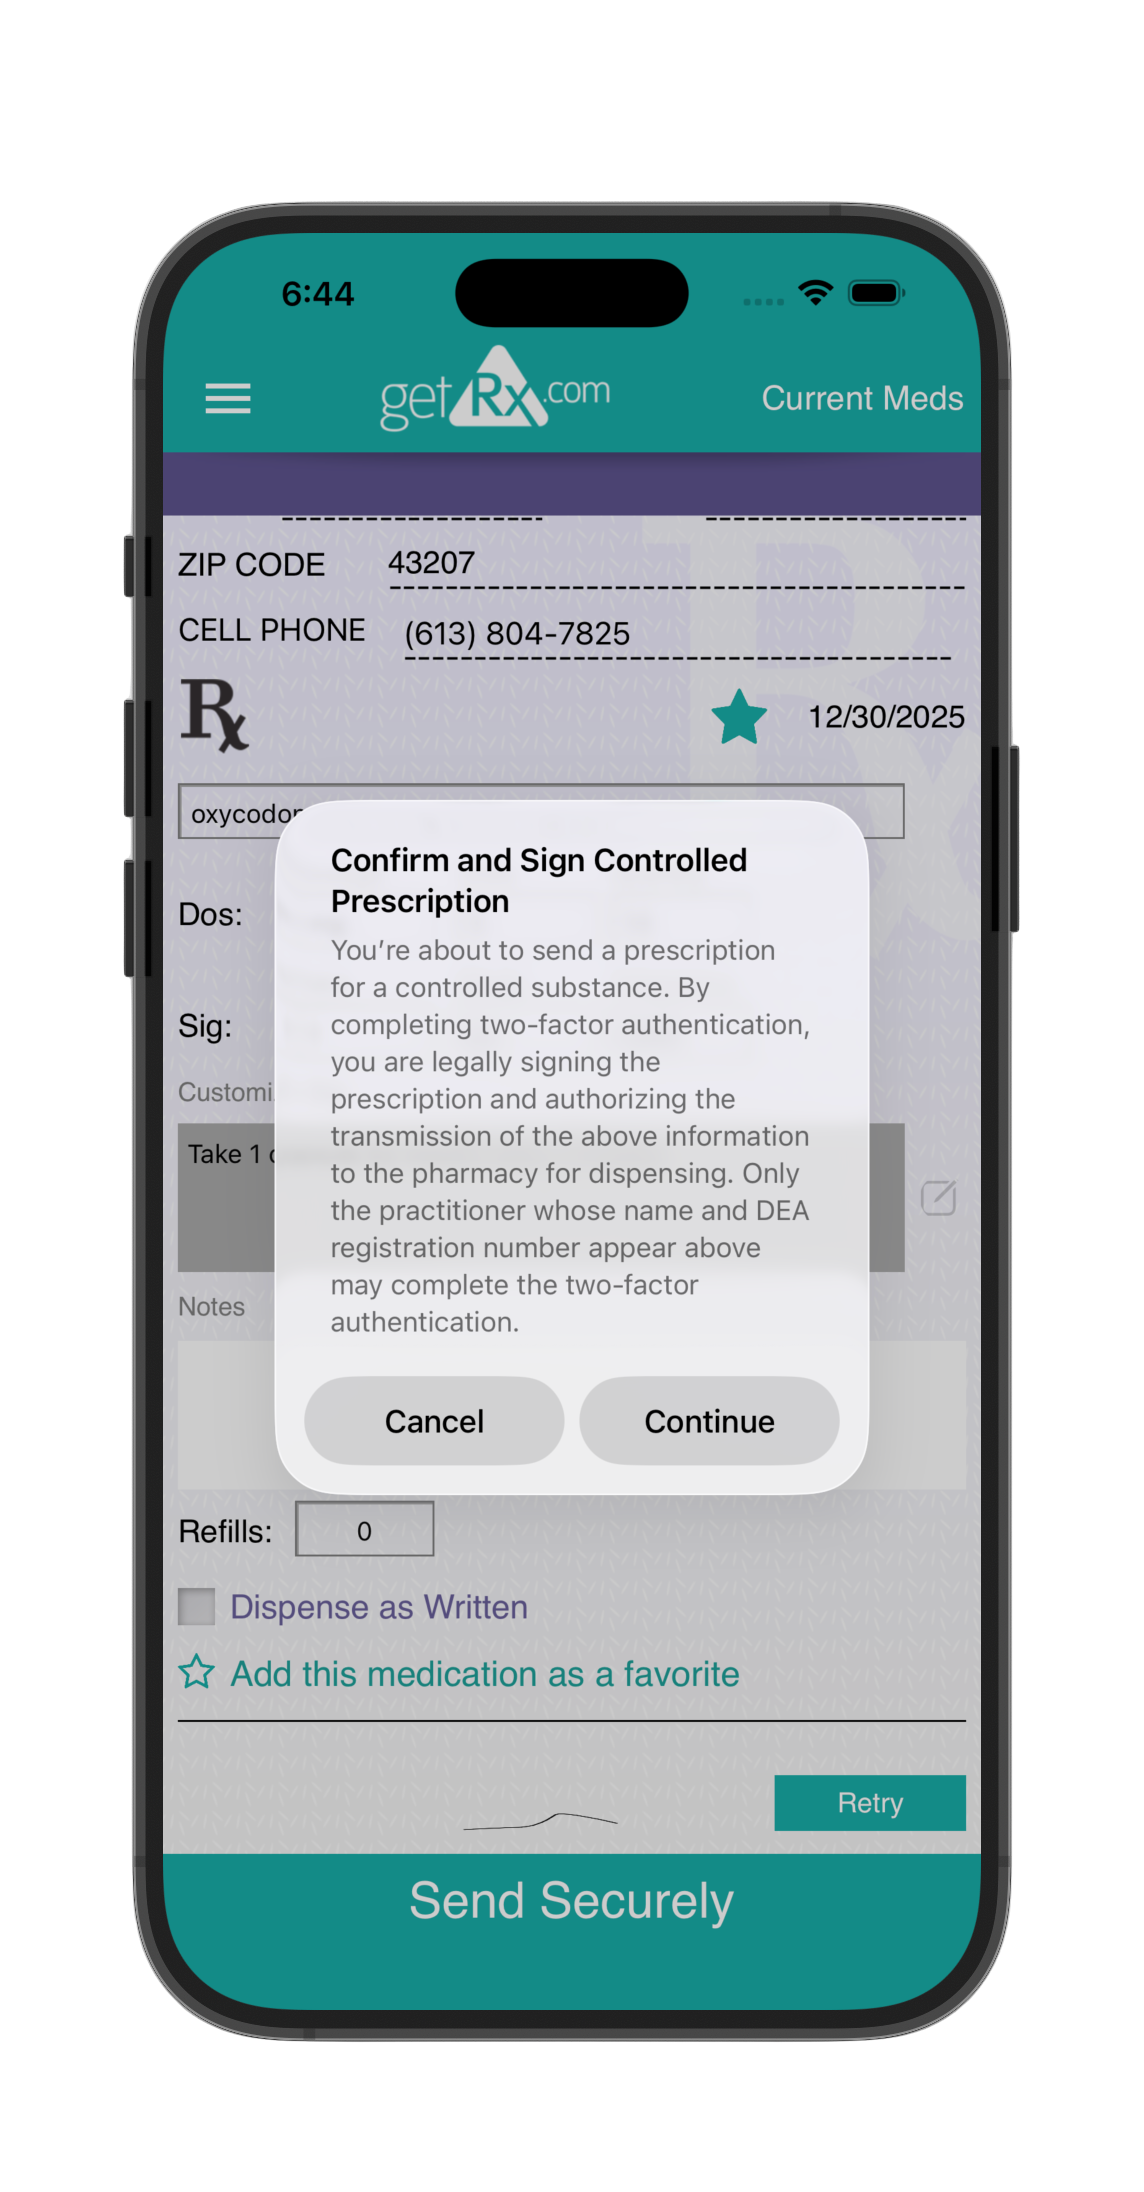
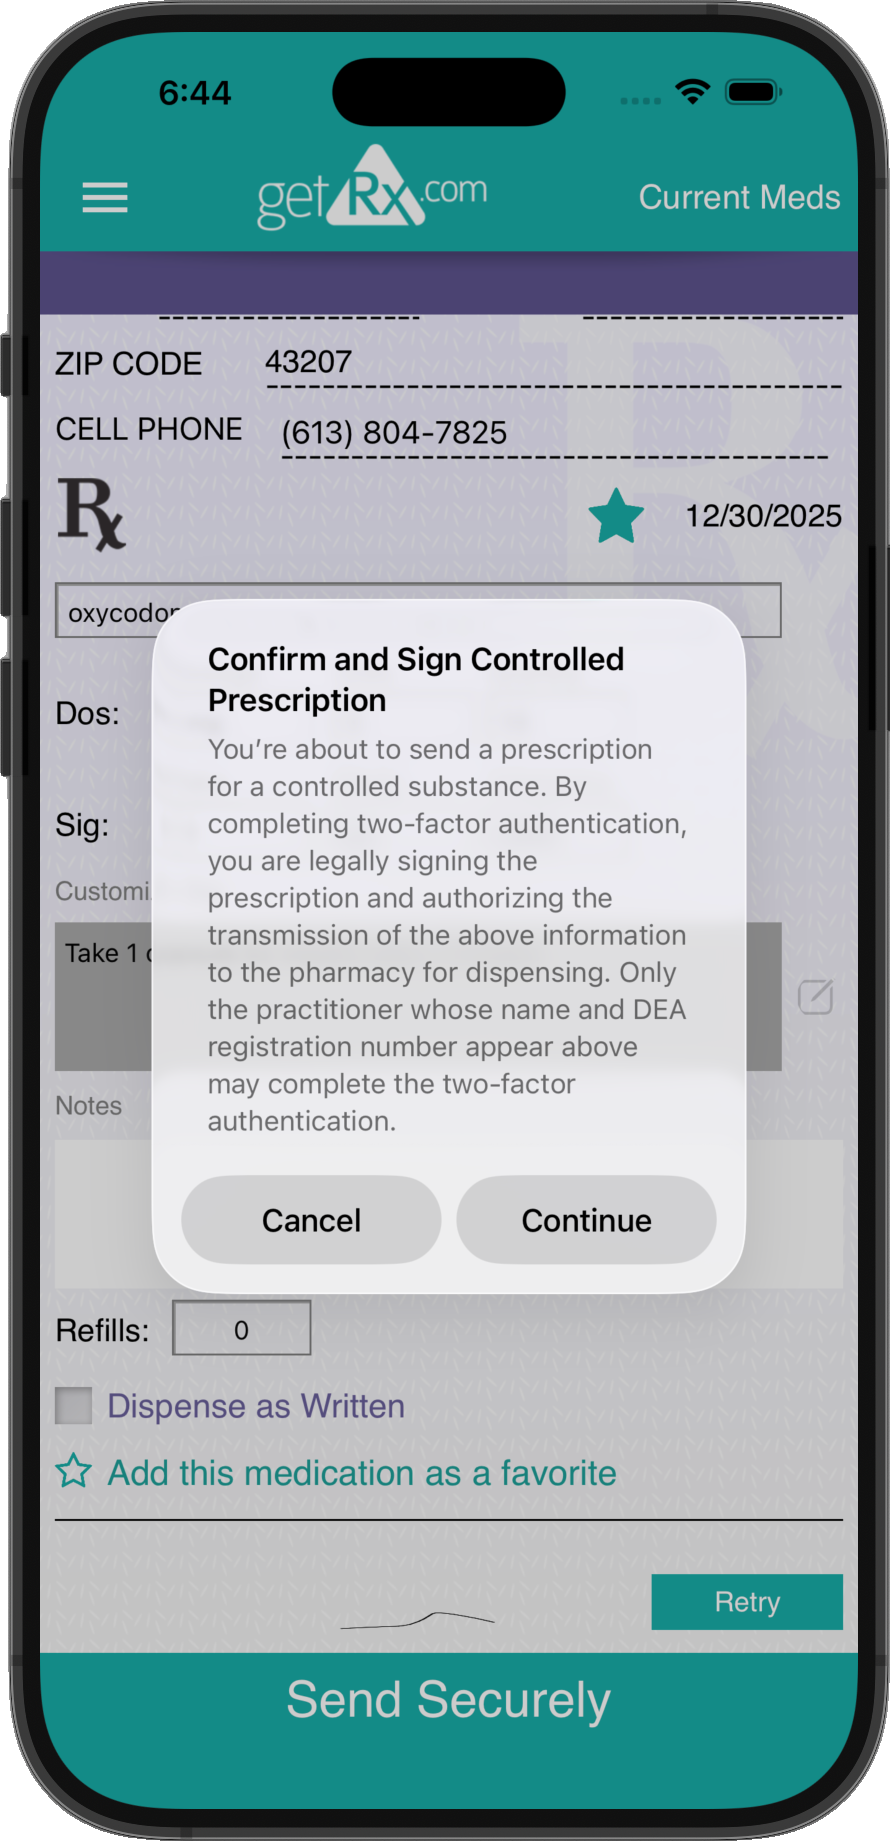
Transparent phone bezel — no surrounding card chrome
- Flood-fill the white margins outside the phone bezel curve in every
  edited PNG to alpha=0 so the corners are fully transparent.
- Crop each PNG tight to the phone bbox (890x1842).
- Drop the .flip-page rounded card / border / box-shadow / inner
  padding. The phone bezel rendered inside the screenshot is now the
  visible silhouette. Replace the card shadow with a drop-shadow filter
  on the .flip-page so the shadow follows the phone's rounded corners
  instead of squaring off behind transparent pixels.
- Strip the same chrome from the hero .phone-shell. The hero phone is
  now a free-floating image with a soft drop-shadow underneath it.
- Bump aspect-ratio to 890/1842 across .flip-stage and .phone-img.

diff --git a/index.html b/index.html
@@ -204,9 +204,9 @@ body.has-pointer #cursor-ring{display:block}
 @keyframes halo-pulse{0%,100%{transform:scale(1);opacity:.7}50%{transform:scale(1.08);opacity:1}}
 .phone-wrap{position:relative;z-index:2;animation:float 6s ease-in-out infinite}
 @keyframes float{0%,100%{transform:translateY(0) rotate(-1deg)}50%{transform:translateY(-14px) rotate(1deg)}}
-.phone-shell{background:linear-gradient(160deg,rgba(12,30,55,.96),rgba(5,14,26,.98));border-radius:48px;border:1.5px solid rgba(59,184,175,.22);padding:13px;box-shadow:0 0 0 1px rgba(255,255,255,.04),0 60px 120px rgba(0,0,0,.8),0 0 80px rgba(59,184,175,.1),inset 0 1px 0 rgba(255,255,255,.06)}
+.phone-shell{background:transparent;padding:0;filter:drop-shadow(0 50px 100px rgba(0,0,0,.7)) drop-shadow(0 0 60px rgba(59,184,175,.1))}
 .phone-screen{background:#F2F2F7;border-radius:36px;overflow:hidden;display:flex;flex-direction:column}
-.phone-img{display:block;width:100%;height:auto;aspect-ratio:1144/2192;object-fit:cover;object-position:center center;border-radius:22px;background:#070B14}
+.phone-img{display:block;width:100%;height:auto;aspect-ratio:890/1842;object-fit:contain;object-position:center center;background:transparent}
 /* pharmacy list screen */
 .pscreen-header{background:var(--teal-deep);padding:14px 16px 12px;display:flex;align-items:center;gap:8px}
 .pscreen-back{color:#fff;opacity:.85;display:flex;align-items:center;flex-shrink:0}
@@ -344,14 +344,14 @@ section{position:relative;z-index:1}
 .rx-reset:hover{background:rgba(59,184,175,.07);border-color:rgba(59,184,175,.45)}
 
 /* PAGE-FLIP CAROUSEL — lookbook-style 3D flip through real app screens (21st.dev inspired) */
-.flip-stage{position:relative;perspective:2000px;perspective-origin:50% 50%;width:100%;max-width:340px;margin:0 auto;aspect-ratio:1144/2192;user-select:none}
+.flip-stage{position:relative;perspective:2000px;perspective-origin:50% 50%;width:100%;max-width:340px;margin:0 auto;aspect-ratio:890/1842;user-select:none}
 .flip-book{position:relative;width:100%;height:100%;transform-style:preserve-3d}
-.flip-page{position:absolute;inset:0;border-radius:34px;overflow:hidden;background:linear-gradient(160deg,rgba(12,30,55,.96),rgba(5,14,26,.98));border:1.5px solid rgba(59,184,175,.22);box-shadow:0 0 0 1px rgba(255,255,255,.04),0 40px 100px rgba(0,0,0,.7),0 0 60px rgba(59,184,175,.08);transform-origin:left center;transition:transform 1.4s cubic-bezier(.6,.04,.3,1),box-shadow 1.4s ease;backface-visibility:hidden;-webkit-backface-visibility:hidden;will-change:transform;padding:14px;box-sizing:border-box}
+.flip-page{position:absolute;inset:0;background:transparent;transform-origin:left center;transition:transform 1.4s cubic-bezier(.6,.04,.3,1),filter 1.4s ease;backface-visibility:hidden;-webkit-backface-visibility:hidden;will-change:transform;filter:drop-shadow(0 30px 60px rgba(0,0,0,.55)) drop-shadow(0 0 30px rgba(59,184,175,.12))}
 .flip-page[data-i="0"]{z-index:4}
 .flip-page[data-i="1"]{z-index:3}
 .flip-page[data-i="2"]{z-index:2}
 .flip-page[data-i="3"]{z-index:1}
-.flip-page img{width:100%;height:100%;object-fit:cover;object-position:center center;display:block;border-radius:22px;background:#070B14}
+.flip-page img{width:100%;height:100%;object-fit:contain;object-position:center center;display:block}
 .flip-page::after{content:"";position:absolute;inset:0;border-radius:34px;background:linear-gradient(90deg,rgba(0,0,0,.18) 0%,transparent 6%,transparent 94%,rgba(255,255,255,.06) 100%);pointer-events:none}
 .flip-page.flipped{transform:rotateY(-178deg);box-shadow:0 40px 90px rgba(0,0,0,.5),0 0 40px rgba(59,184,175,.05)}
 .flip-controls{position:absolute;left:50%;bottom:-58px;transform:translateX(-50%);display:flex;align-items:center;gap:18px;z-index:5}
